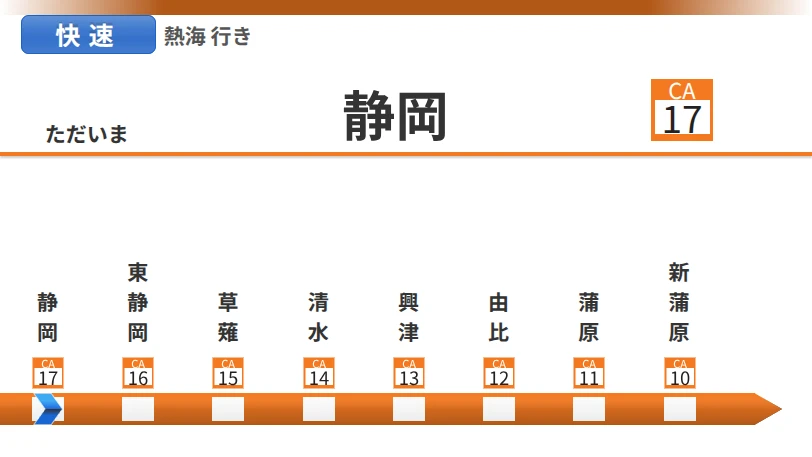
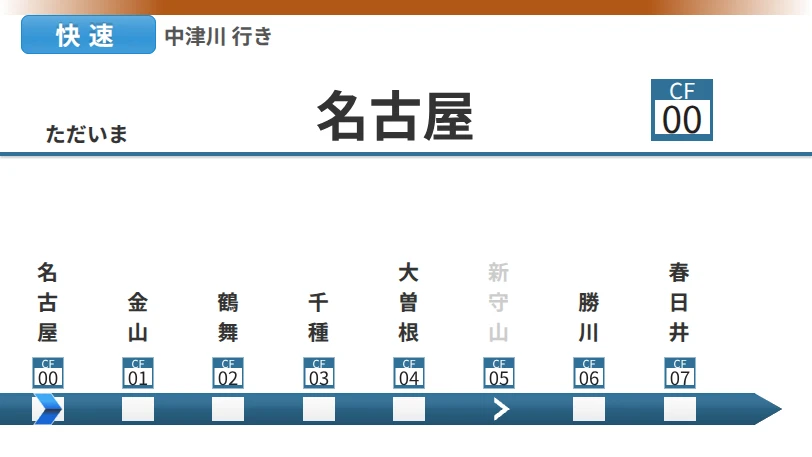
315系風の快速系を埼京線風と同じ青で表示する

diff --git a/src/components/HeaderJRKyushu.test.tsx b/src/components/HeaderJRKyushu.test.tsx
@@ -1,4 +1,5 @@
 import { render } from '@testing-library/react-native';
+import { type TrainType, TrainTypeKind } from '~/@types/graphql';
 import { createMockHeaderProps } from '~/__fixtures__/headerProps';
 import { TOEI_SHINJUKU_LINE_LOCAL } from '~/__fixtures__/line';
 import HeaderJRKyushu from './HeaderJRKyushu';
@@ -180,9 +181,51 @@ describe('HeaderJRKyushu', () => {
           widthScale: 1.4,
           borderRadius: 8,
           borderColor: '#1f63c6',
+          colorOverride: '#1f63c6',
         })
       );
       expect(queryByTestId('TrainTypeBoxJRKyushu')).toBeNull();
+    });
+
+    it.each([
+      TrainTypeKind.Rapid,
+      TrainTypeKind.HighSpeedRapid,
+      TrainTypeKind.CommuterRapid,
+      TrainTypeKind.Default,
+      TrainTypeKind.LimitedExpress,
+    ])('%sは快速系だけ青くし、枠も表示色に揃える', (kind) => {
+      const trainType: TrainType = {
+        __typename: 'TrainType',
+        id: 1,
+        typeId: 102,
+        groupId: 109,
+        name: '快速',
+        nameKatakana: 'カイソク',
+        nameRoman: 'Rapid',
+        nameIpa: null,
+        nameRomanIpa: null,
+        nameTtsSegments: null,
+        nameChinese: null,
+        nameKorean: null,
+        color: '#dc143c',
+        direction: null,
+        kind,
+        line: null,
+        lines: null,
+      };
+      render(
+        <HeaderJRKyushu {...createMockHeaderProps({ trainType })} is315 />
+      );
+      const expected =
+        kind === TrainTypeKind.Rapid || kind === TrainTypeKind.HighSpeedRapid
+          ? '#1e8ad2'
+          : '#dc143c';
+      const props = jest.mocked(TrainTypeBox).mock.calls.at(-1)?.[0];
+      expect(props).toMatchObject({
+        colorOverride: expected,
+        borderColor: expected,
+      });
+      expect(props?.trainType).toBe(trainType);
     });
 
     it('上端は東海道本線の色で固定し、区切り線には現在の路線色を使う', () => {

diff --git a/src/components/HeaderJRKyushu.tsx b/src/components/HeaderJRKyushu.tsx
@@ -6,6 +6,7 @@ import { STATION_NAME_FONT_SIZE } from '../constants';
 import { useHeaderAnimation } from '../hooks';
 import isTablet from '../utils/isTablet';
 import { RFValue } from '../utils/rfValue';
+import { getIsCommuterRapid, getIsRapid } from '../utils/trainTypeString';
 import type { CommonHeaderProps } from './Header.types';
 import HeaderBar from './HeaderBar';
 import HeaderStationName from './HeaderStationName';
@@ -159,6 +160,10 @@ const HeaderJRKyushu: React.FC<Props> = (props) => {
   });
 
   const lineColor = currentLine?.color ?? '#FF6D00';
+  const jr315TrainTypeColor =
+    getIsRapid(trainType) && !getIsCommuterRapid(trainType)
+      ? '#1e8ad2'
+      : (trainType?.color ?? '#1f63c6');
 
   return (
     <View style={styles.root}>
@@ -184,7 +189,8 @@ const HeaderJRKyushu: React.FC<Props> = (props) => {
               heightScale={1.3}
               widthScale={1.4}
               borderRadius={isTablet ? 12 : 8}
-              borderColor={trainType?.color ?? '#1f63c6'}
+              colorOverride={jr315TrainTypeColor}
+              borderColor={jr315TrainTypeColor}
             />
           ) : (
             <TrainTypeBoxJRKyushu trainType={trainType} />

diff --git a/src/components/TrainTypeBox.tsx b/src/components/TrainTypeBox.tsx
@@ -49,6 +49,7 @@ type Props = {
   jr315Gradient?: boolean;
   borderColor?: string;
   fitTextToHeight?: boolean;
+  colorOverride?: string;
 };
 
 export const resolveTrainTypeFontFamily = (
@@ -135,6 +136,7 @@ const TrainTypeBox: React.FC<Props> = ({
   jr315Gradient = false,
   borderColor,
   fitTextToHeight = false,
+  colorOverride,
 }: Props) => {
   const fontSizeScale = Math.max(fontSizeScaleRaw, 0.1);
   const boxHeight = BOX_HEIGHT * Math.max(heightScale, 0.1);
@@ -159,9 +161,9 @@ const TrainTypeBox: React.FC<Props> = ({
   const textOpacityAnim = useRef(new RNAnimated.Value(0)).current;
 
   const trainTypeColor = useMemo(() => {
-    const base = trainType?.color ?? '#1f63c6';
+    const base = colorOverride ?? trainType?.color ?? '#1f63c6';
     return base;
-  }, [trainType]);
+  }, [colorOverride, trainType]);
   const headerLangState = useMemo((): HeaderLangState => {
     return headerState.split('_')[1] as HeaderLangState;
   }, [headerState]);

diff --git a/src/components/TrainTypeBox.test.tsx b/src/components/TrainTypeBox.test.tsx
@@ -218,6 +218,7 @@ describe('TrainTypeBox 2行種別の可読性', () => {
       jr315Gradient?: boolean;
       borderColor?: string;
       fitTextToHeight?: boolean;
+      colorOverride?: string;
     } = {}
   ) => {
     (useAtomValue as jest.Mock).mockImplementation((atom: unknown) => {
@@ -328,6 +329,19 @@ describe('TrainTypeBox 2行種別の可読性', () => {
         expect(layers[0].props.locations).toEqual([0.35, 0.35, 0.35, 0.9]);
         expect(layers[3].props.locations).toEqual([0, 0.35, 0.35]);
       }
+    }
+  );
+
+  it.each([undefined, '#1e8ad2'])(
+    '色上書き=%pを315系のグラデーションに反映する',
+    (colorOverride) => {
+      const { UNSAFE_root } = renderWithScale(1, 1.3, 1.4, 8, {
+        jr315Gradient: true,
+        colorOverride,
+      });
+      expect(
+        UNSAFE_root.findByType(TrainTypeBox315Gradient).props.trainTypeColor
+      ).toBe(colorOverride ?? '#f00');
     }
   );
 
